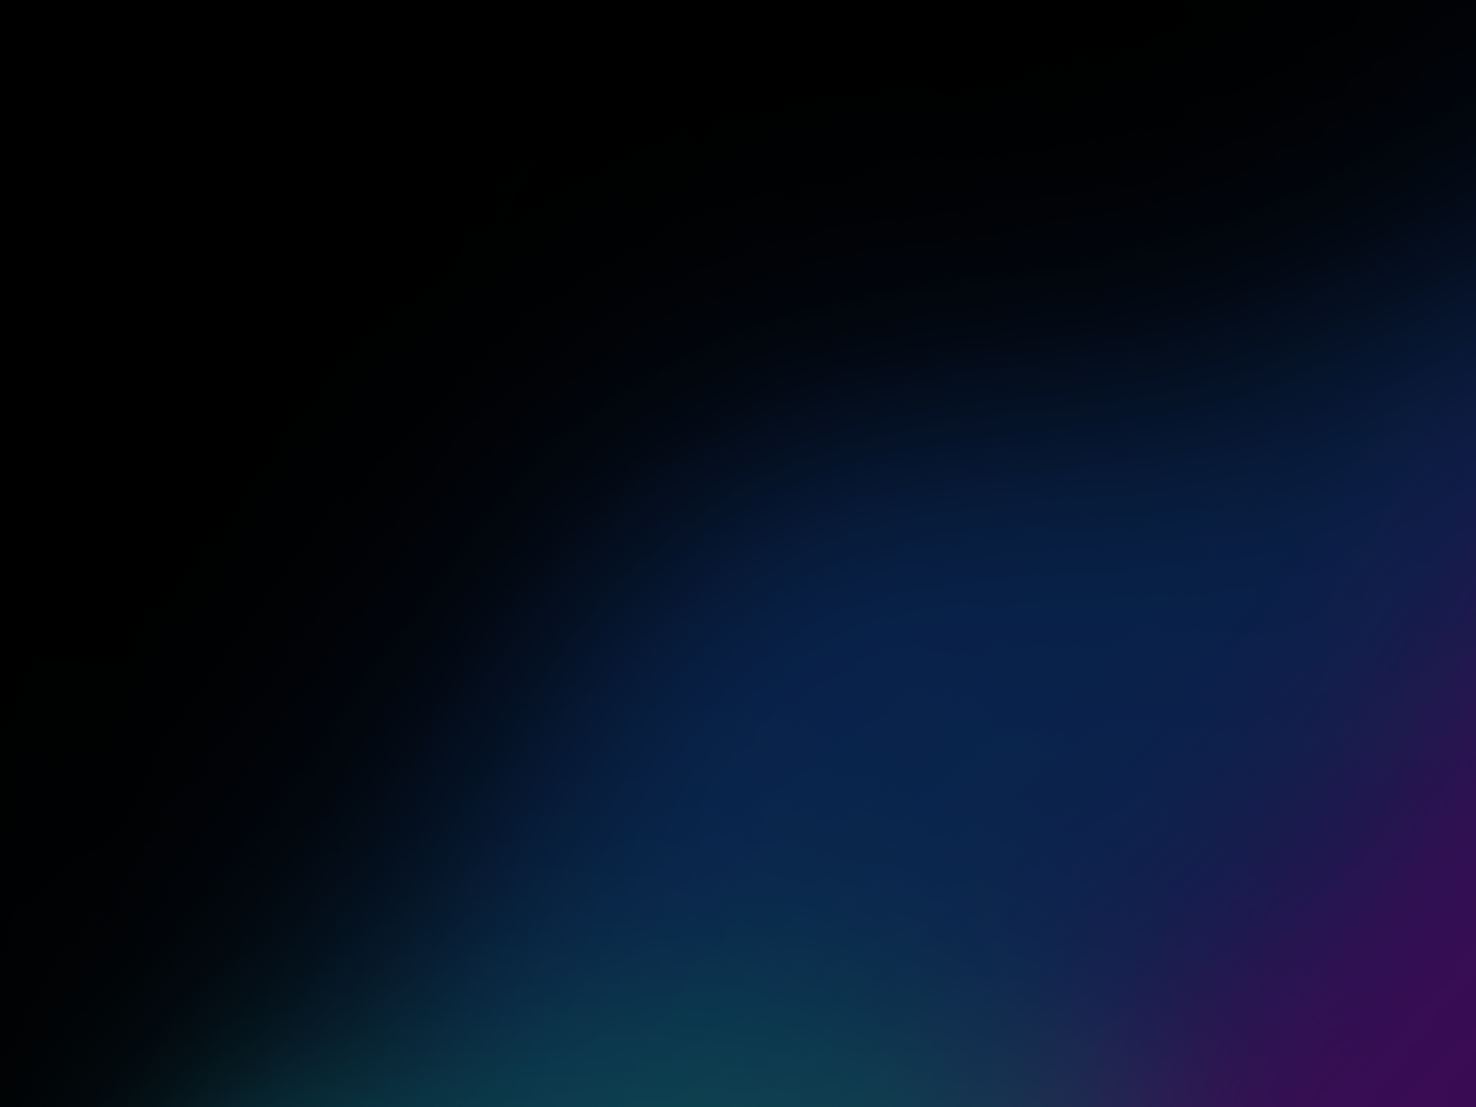
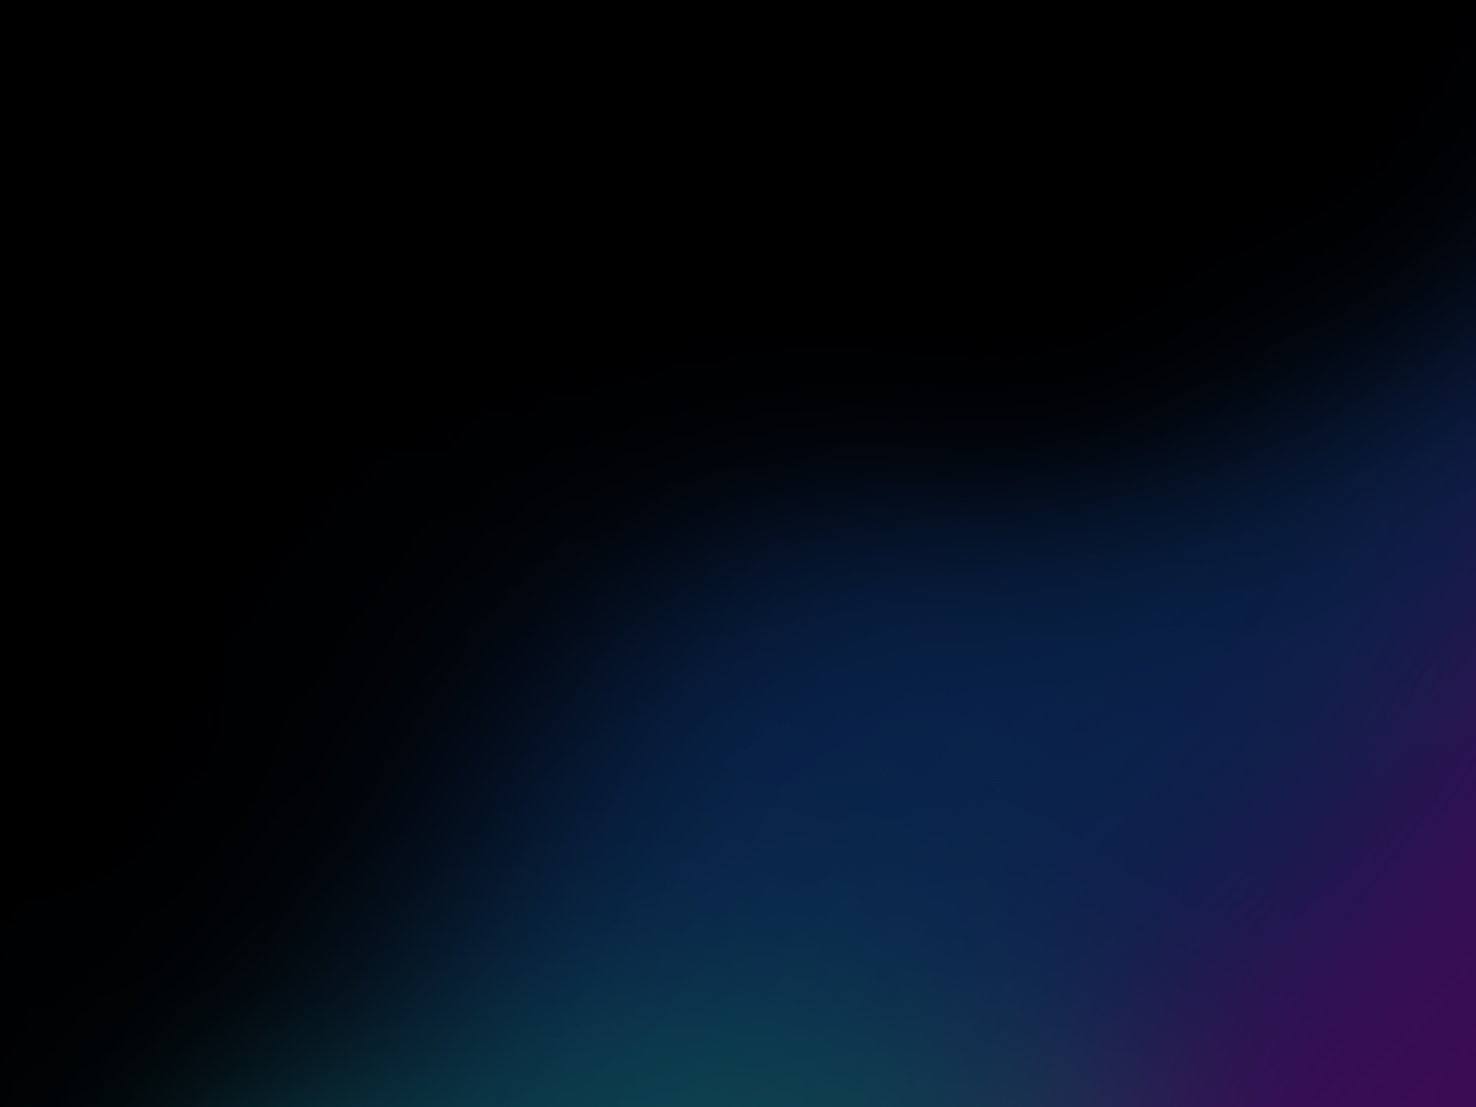
image loader

Changed region(s): [[0.5312, 0.3083, 0.8438, 0.4933]]

diff --git a/assets/application.css b/assets/application.css
@@ -1,1 +1,1 @@
-a,abbr,address,applet,article,aside,audio,b,blockquote,body,button,canvas,caption,cite,code,dd,del,details,dfn,div,dl,dt,em,fieldset,figcaption,figure,footer,form,h1,h2,h3,h4,h5,h6,header,hgroup,hr,html,i,iframe,img,input,ins,kbd,label,legend,li,main,mark,menu,nav,object,ol,p,pre,q,s,samp,section,small,span,strong,sub,summary,sup,table,tbody,td,textarea,tfoot,th,thead,time,tr,tt,u,ul,var,video{margin:0;padding:0;box-sizing:border-box}article,aside,details,figcaption,figure,footer,header,hgroup,menu,nav,section{display:block}h1,h2,h3,h4,h5,h6{font-size:100%}table{border-collapse:collapse;border-spacing:0}b,mark,strong{font-weight:600;font-style:inherit}address,cite,dfn,em,i,q,var{font-style:italic;font-weight:inherit}abbr[title],dfn[title]{cursor:help;border-bottom:1px dotted}ins{border-bottom:1px solid}a,ins,u{text-decoration:none}del,s{text-decoration:line-through}code,kbd,pre,samp{font-family:monospace}small{font-size:.75em}img{border:none;font-style:italic}input,select,textarea{font:inherit}ol,ul{list-style:none}body,html{min-height:100%;min-width:100%;scroll-behavior:smooth}body{background:#1f1f1f;font:16px "Nunito Sans",arial,sans-serif;font-weight:300;color:#fff;line-height:1.35;-webkit-font-smoothing:antialiased}@media screen and (max-width:440px){body{font-size:3.636363636vw}}h1,h2,h3,h4,h5,h6{font:1.5em "Nunito Sans",arial,sans-serif;font-weight:700;line-height:1.1;margin-bottom:.83333333333em}h1.display,h2.display,h3.display,h4.display,h5.display,h6.display{font-size:4em;margin-bottom:.41666666666em}@media (max-width:768px){h1.display,h2.display,h3.display,h4.display,h5.display,h6.display{font-size:2.5em}}h1.large,h2.large,h3.large,h4.large,h5.large,h6.large{font-size:2.5em;margin-bottom:.5em}h1.medium,h2.medium,h3.medium,h4.medium,h5.medium,h6.medium{font-size:2em;margin-bottom:.625em}h4{font-size:1.5em;margin-bottom:1em}p{font-size:1em;margin-bottom:1em;line-height:1.4}strong{font-weight:500}em{font-style:italic}small{font-size:.75em}del{color:#000;opacity:.5}a{color:#000;text-decoration:underline;text-decoration-thickness:.0625em;text-underline-offset:2px}a:focus,a:hover{outline:0;text-decoration:underline;text-decoration-thickness:.0625em;text-underline-offset:2px}img,svg{max-width:100%;height:auto;display:block;line-height:1}input::-webkit-inner-spin-button,input::-webkit-outer-spin-button{-webkit-appearance:none;-moz-appearance:none;appearance:none;margin:0}input[type=number]{-webkit-appearance:textfield;-moz-appearance:textfield;appearance:textfield}a,div,header,img,label,span{-webkit-tap-highlight-color:transparent}article:empty,dl:empty,h1:empty,h2:empty,h3:empty,h4:empty,h5:empty,h6:empty,p:empty,section:empty,ul:empty{display:none}#WebPixelsManagerContainer,#WebPixelsManagerSandboxContainer{display:none}.wrap{width:100%;max-width:100%;margin:0 auto;padding:6em 4em}@media (max-width:1440px){.wrap{padding:4em 3em}}@media (max-width:1024px){.wrap{padding:3em 2em}}@media (max-width:768px){.wrap{padding:2em 1.5em}}@media (max-width:440px){.wrap{padding:2em 1.5em}}.wrap--xx-large{max-width:1680px}.wrap--x-large{max-width:1440px}.wrap--large{max-width:1024px}.wrap--medium{max-width:768px}.wrap--small{max-width:440px}.wrap--x-small{max-width:360px}.wrap--no-padding{padding-top:0;padding-bottom:0}.page-content{background-color:#fff;color:#000}header{background-color:#000;position:-webkit-sticky;position:sticky;width:100%;top:0;z-index:3}header .inner{display:flex;justify-content:space-between}header img{width:7.5em;height:auto}header nav{height:auto;display:flex;align-items:flex-end}@media (max-width:1024px){header nav{display:none}}header nav div,header nav li,header nav ul{display:flex;height:2.25em}header nav ul{gap:2em}header a{font-size:.9375em;display:flex;color:#fff;font-weight:500;text-decoration:none;transition:opacity linear .15s}header a:hover{text-decoration:none}header a.no-hover{opacity:.5}header button{display:none;font:1em "Nunito Sans",arial,sans-serif;-webkit-appearance:none;-moz-appearance:none;appearance:none;width:-webkit-fit-content;width:-moz-fit-content;width:fit-content;height:auto;justify-content:center;align-items:center;background-color:transparent;border:none;cursor:pointer}@media (max-width:1024px){header button{display:flex}}header button svg{width:1.75em;height:auto;position:relative;top:10%}header button svg circle,header button svg line,header button svg path,header button svg polygon{fill:none;stroke:#fff;stroke-width:1;stroke-miterlimit:10;stroke-linecap:round;stroke-linejoin:round}footer{position:relative}footer .inner{display:grid;grid-template-columns:1fr auto}@media (max-width:768px){footer .inner{grid-template-columns:1fr;gap:3em}}@media (max-width:768px){footer .inner .column-1{order:2}}@media (max-width:768px){footer .inner .column-2{order:1}}footer .menus-container{display:grid;grid-template-columns:repeat(2,1fr);gap:2em}@media (max-width:768px){footer .menus-container{grid-template-columns:1fr 25%}}@media (max-width:440px){footer .menus-container{grid-template-columns:1fr auto}}footer nav{margin-bottom:1.5em}footer nav:last-child{margin-bottom:0}footer nav ul{display:flex;flex-direction:column;gap:.25em}footer nav a{color:#fff;text-decoration:none}footer nav a:hover{text-decoration:underline}footer form{width:25em;display:flex;flex-direction:column;gap:1em}@media (max-width:1024px){footer form{width:20em}}@media (max-width:768px){footer form{width:100%}}footer input{-webkit-appearance:none;-moz-appearance:none;appearance:none;font:1em "Nunito Sans",arial,sans-serif;height:3em;border:none;background-color:#fff;padding:0 1em;border-radius:.25em;width:100%}footer button{margin-top:1em}@media (max-width:768px){footer button{margin-top:0}}.button{-webkit-appearance:none;-moz-appearance:none;appearance:none;background-color:#773a92;border:none;color:#fff;font:1em "Nunito Sans",arial,sans-serif;font-weight:500;display:flex;width:-webkit-fit-content;width:-moz-fit-content;width:fit-content;min-height:3em;text-decoration:none;height:-webkit-fit-content;height:-moz-fit-content;height:fit-content;align-items:center;justify-content:center;padding:0 3em;cursor:pointer;outline:0;box-shadow:none;white-space:nowrap;border-radius:.25em;transition-property:background-color,border-color;transition-duration:.15s;transition-timing-function:linear;white-space:nowrap;gap:.5em}.button:hover{outline:0;background-color:#652482;text-decoration:none}
+a,abbr,address,applet,article,aside,audio,b,blockquote,body,button,canvas,caption,cite,code,dd,del,details,dfn,div,dl,dt,em,fieldset,figcaption,figure,footer,form,h1,h2,h3,h4,h5,h6,header,hgroup,hr,html,i,iframe,img,input,ins,kbd,label,legend,li,main,mark,menu,nav,object,ol,p,pre,q,s,samp,section,small,span,strong,sub,summary,sup,table,tbody,td,textarea,tfoot,th,thead,time,tr,tt,u,ul,var,video{margin:0;padding:0;box-sizing:border-box}article,aside,details,figcaption,figure,footer,header,hgroup,menu,nav,section{display:block}h1,h2,h3,h4,h5,h6{font-size:100%}table{border-collapse:collapse;border-spacing:0}b,mark,strong{font-weight:600;font-style:inherit}address,cite,dfn,em,i,q,var{font-style:italic;font-weight:inherit}abbr[title],dfn[title]{cursor:help;border-bottom:1px dotted}ins{border-bottom:1px solid}a,ins,u{text-decoration:none}del,s{text-decoration:line-through}code,kbd,pre,samp{font-family:monospace}small{font-size:.75em}img{border:none;font-style:italic}input,select,textarea{font:inherit}ol,ul{list-style:none}body,html{min-height:100%;min-width:100%;scroll-behavior:smooth}body{background:#1f1f1f;font:16px "Nunito Sans",arial,sans-serif;font-weight:300;color:#fff;line-height:1.35;-webkit-font-smoothing:antialiased}@media screen and (max-width:440px){body{font-size:3.636363636vw}}h1,h2,h3,h4,h5,h6{font:1.5em "Nunito Sans",arial,sans-serif;font-weight:700;line-height:1.1;margin-bottom:.83333333333em}h1.display,h2.display,h3.display,h4.display,h5.display,h6.display{font-size:4em;margin-bottom:.41666666666em}@media (max-width:768px){h1.display,h2.display,h3.display,h4.display,h5.display,h6.display{font-size:2.5em}}h1.large,h2.large,h3.large,h4.large,h5.large,h6.large{font-size:2.5em;margin-bottom:.5em}h1.medium,h2.medium,h3.medium,h4.medium,h5.medium,h6.medium{font-size:2em;margin-bottom:.625em}h4{font-size:1.5em;margin-bottom:1em}p{font-size:1em;margin-bottom:1em;line-height:1.4}strong{font-weight:500}em{font-style:italic}small{font-size:.75em}del{color:#000;opacity:.5}a{color:#000;text-decoration:underline;text-decoration-thickness:.0625em;text-underline-offset:2px}a:focus,a:hover{outline:0;text-decoration:underline;text-decoration-thickness:.0625em;text-underline-offset:2px}img,svg{max-width:100%;height:auto;display:block;line-height:1}input::-webkit-inner-spin-button,input::-webkit-outer-spin-button{-webkit-appearance:none;-moz-appearance:none;appearance:none;margin:0}input[type=number]{-webkit-appearance:textfield;-moz-appearance:textfield;appearance:textfield}a,div,header,img,label,span{-webkit-tap-highlight-color:transparent}article:empty,dl:empty,h1:empty,h2:empty,h3:empty,h4:empty,h5:empty,h6:empty,p:empty,section:empty,ul:empty{display:none}#WebPixelsManagerContainer,#WebPixelsManagerSandboxContainer{display:none}.wrap{width:100%;max-width:100%;margin:0 auto;padding:6em 4em}@media (max-width:1440px){.wrap{padding:4em 3em}}@media (max-width:1024px){.wrap{padding:3em 2em}}@media (max-width:768px){.wrap{padding:2em 1.5em}}@media (max-width:440px){.wrap{padding:2em 1.5em}}.wrap--xx-large{max-width:1680px}.wrap--x-large{max-width:1440px}.wrap--large{max-width:1024px}.wrap--medium{max-width:768px}.wrap--small{max-width:440px}.wrap--x-small{max-width:360px}.wrap--no-padding{padding-top:0;padding-bottom:0}.page-content{background-color:#fff;color:#000}header{background-color:#000;position:-webkit-sticky;position:sticky;width:100%;top:0;z-index:3}header .inner{display:flex;justify-content:space-between}@media (max-width:1024px){header .branding{order:2}}header img{width:7.5em;height:auto}header nav{height:auto;display:flex;align-items:flex-end}@media (max-width:1024px){header nav{display:none}}header nav div,header nav li,header nav ul{display:flex;height:2.25em}header nav ul{gap:2em}header a{font-size:.9375em;display:flex;color:#fff;font-weight:500;text-decoration:none;transition:opacity linear .15s}header a:hover{text-decoration:none}header a.no-hover{opacity:.5}header button{display:none;font:1em "Nunito Sans",arial,sans-serif;-webkit-appearance:none;-moz-appearance:none;appearance:none;width:-webkit-fit-content;width:-moz-fit-content;width:fit-content;height:auto;justify-content:center;align-items:center;background-color:transparent;border:none;cursor:pointer}@media (max-width:1024px){header button{display:flex;order:1}}header button svg{width:1.75em;height:auto;position:relative;top:10%}header button svg circle,header button svg line,header button svg path,header button svg polygon{fill:none;stroke:#fff;stroke-width:1;stroke-miterlimit:10;stroke-linecap:round;stroke-linejoin:round}footer{position:relative}footer .inner{display:grid;grid-template-columns:1fr auto}@media (max-width:768px){footer .inner{grid-template-columns:1fr;gap:3em}}@media (max-width:768px){footer .inner .column-1{order:2}}@media (max-width:768px){footer .inner .column-2{order:1}}footer .menus-container{display:grid;grid-template-columns:repeat(2,1fr);gap:2em}@media (max-width:768px){footer .menus-container{grid-template-columns:1fr 25%}}@media (max-width:440px){footer .menus-container{grid-template-columns:1fr auto}}footer nav{margin-bottom:1.5em}footer nav:last-child{margin-bottom:0}footer nav ul{display:flex;flex-direction:column;gap:.25em}footer nav a{color:#fff;text-decoration:none}footer nav a:hover{text-decoration:underline}footer form{width:25em;display:flex;flex-direction:column;gap:1em}@media (max-width:1024px){footer form{width:20em}}@media (max-width:768px){footer form{width:100%}}footer input{-webkit-appearance:none;-moz-appearance:none;appearance:none;font:1em "Nunito Sans",arial,sans-serif;height:3em;border:none;background-color:#fff;padding:0 1em;border-radius:.25em;width:100%}footer button{margin-top:1em}@media (max-width:768px){footer button{margin-top:0}}.button{-webkit-appearance:none;-moz-appearance:none;appearance:none;background-color:#773a92;border:none;color:#fff;font:1em "Nunito Sans",arial,sans-serif;font-weight:500;display:flex;width:-webkit-fit-content;width:-moz-fit-content;width:fit-content;min-height:3em;text-decoration:none;height:-webkit-fit-content;height:-moz-fit-content;height:fit-content;align-items:center;justify-content:center;padding:0 3em;cursor:pointer;outline:0;box-shadow:none;white-space:nowrap;border-radius:.25em;transition-property:background-color,border-color;transition-duration:.15s;transition-timing-function:linear;white-space:nowrap;gap:.5em}.button:hover{outline:0;background-color:#652482;text-decoration:none}

diff --git a/assets/application.js b/assets/application.js
@@ -1,1 +1,1 @@
-!function n(o,a,i){function u(r,e){if(!a[r]){if(!o[r]){var t="function"==typeof require&&require;if(!e&&t)return t(r,!0);if(f)return f(r,!0);throw(e=new Error("Cannot find module '"+r+"'")).code="MODULE_NOT_FOUND",e}t=a[r]={exports:{}},o[r][0].call(t.exports,function(e){return u(o[r][1][e]||e)},t,t.exports,n,o,a,i)}return a[r].exports}for(var f="function"==typeof require&&require,e=0;e<i.length;e++)u(i[e]);return u}({1:[function(e,r,t){"use strict";function o(e,r){var t,n="undefined"!=typeof Symbol&&e[Symbol.iterator]||e["@@iterator"];if(!n){if(Array.isArray(e)||(n=function(e,r){if(e){if("string"==typeof e)return u(e,r);var t=Object.prototype.toString.call(e).slice(8,-1);return"Map"===(t="Object"===t&&e.constructor?e.constructor.name:t)||"Set"===t?Array.from(e):"Arguments"===t||/^(?:Ui|I)nt(?:8|16|32)(?:Clamped)?Array$/.test(t)?u(e,r):void 0}}(e))||r&&e&&"number"==typeof e.length)return n&&(e=n),t=0,{s:r=function(){},n:function(){return t>=e.length?{done:!0}:{done:!1,value:e[t++]}},e:function(e){throw e},f:r};throw new TypeError("Invalid attempt to iterate non-iterable instance.\nIn order to be iterable, non-array objects must have a [Symbol.iterator]() method.")}var o,a=!0,i=!1;return{s:function(){n=n.call(e)},n:function(){var e=n.next();return a=e.done,e},e:function(e){i=!0,o=e},f:function(){try{a||null==n.return||n.return()}finally{if(i)throw o}}}}function u(e,r){(null==r||r>e.length)&&(r=e.length);for(var t=0,n=new Array(r);t<r;t++)n[t]=e[t];return n}var n,a=document.querySelector("header").querySelectorAll(".menu-item a"),i=o(a);try{for(i.s();!(n=i.n()).done;){var f=n.value;f.addEventListener("mouseenter",function(e){var r,t=o(a);try{for(t.s();!(r=t.n()).done;){var n=r.value;n!==e.target&&n.classList.add("no-hover")}}catch(e){t.e(e)}finally{t.f()}}),f.addEventListener("mouseleave",function(){var e,r=o(a);try{for(r.s();!(e=r.n()).done;)e.value.classList.remove("no-hover")}catch(e){r.e(e)}finally{r.f()}})}}catch(e){i.e(e)}finally{i.f()}},{}],2:[function(e,r,t){"use strict";e("./core/base")},{"./core/base":1}]},{},[2]);
+!function n(o,i,a){function u(t,e){if(!i[t]){if(!o[t]){var r="function"==typeof require&&require;if(!e&&r)return r(t,!0);if(c)return c(t,!0);throw(e=new Error("Cannot find module '"+t+"'")).code="MODULE_NOT_FOUND",e}r=i[t]={exports:{}},o[t][0].call(r.exports,function(e){return u(o[t][1][e]||e)},r,r.exports,n,o,i,a)}return i[t].exports}for(var c="function"==typeof require&&require,e=0;e<a.length;e++)u(a[e]);return u}({1:[function(e,t,r){"use strict";function o(e,t){var r,n="undefined"!=typeof Symbol&&e[Symbol.iterator]||e["@@iterator"];if(!n){if(Array.isArray(e)||(n=function(e,t){if(e){if("string"==typeof e)return u(e,t);var r=Object.prototype.toString.call(e).slice(8,-1);return"Map"===(r="Object"===r&&e.constructor?e.constructor.name:r)||"Set"===r?Array.from(e):"Arguments"===r||/^(?:Ui|I)nt(?:8|16|32)(?:Clamped)?Array$/.test(r)?u(e,t):void 0}}(e))||t&&e&&"number"==typeof e.length)return n&&(e=n),r=0,{s:t=function(){},n:function(){return r>=e.length?{done:!0}:{done:!1,value:e[r++]}},e:function(e){throw e},f:t};throw new TypeError("Invalid attempt to iterate non-iterable instance.\nIn order to be iterable, non-array objects must have a [Symbol.iterator]() method.")}var o,i=!0,a=!1;return{s:function(){n=n.call(e)},n:function(){var e=n.next();return i=e.done,e},e:function(e){a=!0,o=e},f:function(){try{i||null==n.return||n.return()}finally{if(a)throw o}}}}function u(e,t){(null==t||t>e.length)&&(t=e.length);for(var r=0,n=new Array(t);r<t;r++)n[r]=e[r];return n}var n,i=document.querySelector("header").querySelectorAll(".menu-item a"),a=o(i);try{for(a.s();!(n=a.n()).done;){var c=n.value;c.addEventListener("mouseenter",function(e){var t,r=o(i);try{for(r.s();!(t=r.n()).done;){var n=t.value;n!==e.target&&n.classList.add("no-hover")}}catch(e){r.e(e)}finally{r.f()}}),c.addEventListener("mouseleave",function(){var e,t=o(i);try{for(t.s();!(e=t.n()).done;)e.value.classList.remove("no-hover")}catch(e){t.e(e)}finally{t.f()}})}}catch(e){a.e(e)}finally{a.f()}window.initImageLoad=function(){var r,t,e=document.querySelectorAll("img[data-src]");e&&(r=function(e){var t=e.getAttribute("data-src");t&&(e.setAttribute("src",t),e.onload=function(){e.removeAttribute("data-src"),e.classList.remove("preload")})},"IntersectionObserver"in window?(t=new IntersectionObserver(function(e,t){e.forEach(function(e){e.isIntersecting&&(r(e.target),t.unobserve(e.target))})}),e.forEach(function(e){t.observe(e)})):e.forEach(function(e){r(e)}))},window.addEventListener("DOMContentLoaded",window.initImageLoad)},{}],2:[function(e,t,r){"use strict";e("./core/base")},{"./core/base":1}]},{},[2]);

diff --git a/assets/hero.css b/assets/hero.css
@@ -1,1 +1,1 @@
-.hero{position:relative;height:calc(100vh - 74px);min-height:50em;z-index:2}@media (max-width:768px){.hero{height:-webkit-fit-content;height:-moz-fit-content;height:fit-content;min-height:-webkit-fit-content;min-height:-moz-fit-content;min-height:fit-content}}.hero .inner{width:100%;height:100%;display:flex;align-items:center;justify-content:center;padding-top:5em}@media (max-width:768px){.hero .inner{height:-webkit-fit-content;height:-moz-fit-content;height:fit-content;padding:5em 0}}.hero .masthead{width:100%;max-width:768px;text-align:center}@media (max-width:768px){.hero .masthead{padding:0 2em}}.hero .actions{display:flex;justify-content:center;padding-top:2em}.hero .logos{padding-top:5em}@media (max-width:1024px){.hero .logos{padding-top:3em}}.hero .logos p{margin-bottom:.75em}.hero .logos ul{display:flex;justify-content:center;gap:2em}@media (max-width:1024px){.hero .logos ul{gap:1em}}.hero .logos ul li{display:flex;align-items:center;gap:1em}.hero .logos ul span{font-size:.875em;font-weight:500}@media (max-width:1024px){.hero .logos ul span{display:none}}.hero h1{text-transform:capitalize;margin:0;font-weight:800}.hero p{font-size:1.75em;margin:0;margin-top:.53333333333em}@media (max-width:1024px){.hero p{font-size:1.25em;margin-top:.5em}}
+.hero{position:relative;height:calc(100vh - 74px);min-height:50em;z-index:2;background-color:#000;overflow:hidden}@media (max-width:768px){.hero{height:-webkit-fit-content;height:-moz-fit-content;height:fit-content;min-height:-webkit-fit-content;min-height:-moz-fit-content;min-height:fit-content}}.hero .inner{width:100%;height:100%;display:flex;align-items:center;justify-content:center;padding-top:5em;position:relative;z-index:2}@media (max-width:768px){.hero .inner{height:-webkit-fit-content;height:-moz-fit-content;height:fit-content;padding:5em 0}}.hero .background{opacity:1;transition-property:opacity;transition-duration:.25s;transition-timing-function:linear;position:absolute;left:50%;transform:translateX(-50%);bottom:0;width:100%;height:100%;-o-object-fit:cover;object-fit:cover;-o-object-position:50% 100%;object-position:50% 100%;z-index:1}.hero .background.preload{opacity:0}.hero .masthead{width:100%;max-width:768px;text-align:center}@media (max-width:768px){.hero .masthead{padding:0 2em}}.hero .actions{display:flex;justify-content:center;padding-top:2em}.hero .logos{padding-top:5em}@media (max-width:1024px){.hero .logos{padding-top:3em}}.hero .logos p{margin-bottom:.75em}.hero .logos ul{display:flex;justify-content:center;gap:2em}@media (max-width:1024px){.hero .logos ul{gap:1em}}.hero .logos ul li{display:flex;align-items:center;gap:1em}.hero .logos ul span{font-size:.875em;font-weight:500}@media (max-width:1024px){.hero .logos ul span{display:none}}.hero h1{text-transform:capitalize;margin:0;font-weight:800}.hero p{font-size:1.75em;margin:0;margin-top:.53333333333em}@media (max-width:1024px){.hero p{font-size:1.25em;margin-top:.5em}}

diff --git a/src/js/core/base.js b/src/js/core/base.js
@@ -8,3 +8,37 @@ for (const link of menuLinks) {
 		for (const link of menuLinks) link.classList.remove('no-hover');
 	});
 }
+
+window.initImageLoad = () => {
+	let imagesToLoad = document.querySelectorAll('img[data-src]');
+	if (imagesToLoad) {
+		const loadImages = image => {
+			const imageSRC = image.getAttribute('data-src');
+			if (imageSRC) {
+				image.setAttribute('src', imageSRC);
+				image.onload = () => {
+					image.removeAttribute('data-src');
+					image.classList.remove('preload');
+				};
+			}
+		};
+		if ('IntersectionObserver' in window) {
+			const observer = new IntersectionObserver((items, observer) => {
+				items.forEach(item => {
+					if (item.isIntersecting) {
+						loadImages(item.target);
+						observer.unobserve(item.target);
+					}
+				});
+			});
+			imagesToLoad.forEach(img => {
+				observer.observe(img);
+			});
+		} else {
+			imagesToLoad.forEach(img => {
+				loadImages(img);
+			});
+		}
+	}
+};
+window.addEventListener('DOMContentLoaded', window.initImageLoad);

diff --git a/src/scss/sections/hero.scss b/src/scss/sections/hero.scss
@@ -5,6 +5,8 @@
 	height: calc(100vh - 74px);
 	min-height: 50em;
 	z-index: 2;
+	background-color: $color-black;
+	overflow: hidden;
 	@media (max-width: $w-m) {
 		height: fit-content;
 		min-height: fit-content;
@@ -16,10 +18,24 @@
 		align-items: center;
 		justify-content: center;
 		padding-top: 5em;
+		position: relative;
+		z-index: 2;
 		@media (max-width: $w-m) {
 			height: fit-content;
 			padding: 5em 0;
 		}
+	}
+	.background {
+		@include preload;
+		position: absolute;
+		left: 50%;
+		transform: translateX(-50%);
+		bottom: 0;
+		width: 100%;
+		height: 100%;
+		object-fit: cover;
+		object-position: 50% 100%;
+		z-index: 1;
 	}
 	.masthead {
 		width: 100%;

diff --git a/src/scss/core/header.scss b/src/scss/core/header.scss
@@ -8,6 +8,11 @@ header {
 		display: flex;
 		justify-content: space-between;
 	}
+	.branding {
+		@media (max-width: $w-l) {
+			order: 2;
+		}
+	}
 	img {
 		width: 7.5em;
 		height: auto;
@@ -56,6 +61,7 @@ header {
 		cursor: pointer;
 		@media (max-width: $w-l) {
 			display: flex;
+			order: 1;
 		}
 		svg {
 			width: 1.75em;

diff --git a/src/scss/abstracts/variables.scss b/src/scss/abstracts/variables.scss
@@ -30,3 +30,14 @@ $w-ms: 520px;
 //mobile breakpoints
 $w-s: 440px;
 $w-xs: 360px;
+
+// image preload mixin
+@mixin preload {
+	opacity: 1;
+	transition-property: opacity;
+	transition-duration: 0.25s;
+	transition-timing-function: linear;
+	&.preload {
+		opacity: 0;
+	}
+}

diff --git a/header.php b/header.php
@@ -8,7 +8,7 @@
     <?php } ?>
 	<meta charset="<?php bloginfo('charset'); ?>">
 	<meta name="viewport" content="width=device-width, initial-scale=1.0, minimum-scale=1.0, maximum-scale=5.0, user-scalable=yes">
-	<link rel="icon" href="<?php bloginfo('template_directory'); ?>/img/favicon.png" type="image/x-icon"/>
+	<link rel="icon" href="<?php bloginfo('template_directory'); ?>/assets/favicon.png" type="image/x-icon"/>
 	<?php wp_head(); ?>
 	<link rel="preconnect" href="https://fonts.googleapis.com">
 	<link rel="preconnect" href="https://fonts.gstatic.com" crossorigin>

diff --git a/sections/hero.php b/sections/hero.php
@@ -7,7 +7,7 @@
 <?php $target = get_field('hero_button_target');?>
 <?php $logo_text = get_field('hero_logo_text');?>
 
-<section class="hero" style="background: url(<?php echo $background; ?>) no-repeat center bottom / cover;">
+<section class="hero">
     <div class="inner">
         <div class="masthead">
             <?php if ($title) { ?>
@@ -39,4 +39,5 @@
             </div>
         </div>
     </div>
+    <img data-src="<?php echo $background; ?>" width="" height="" class="background preload">
 </section>
